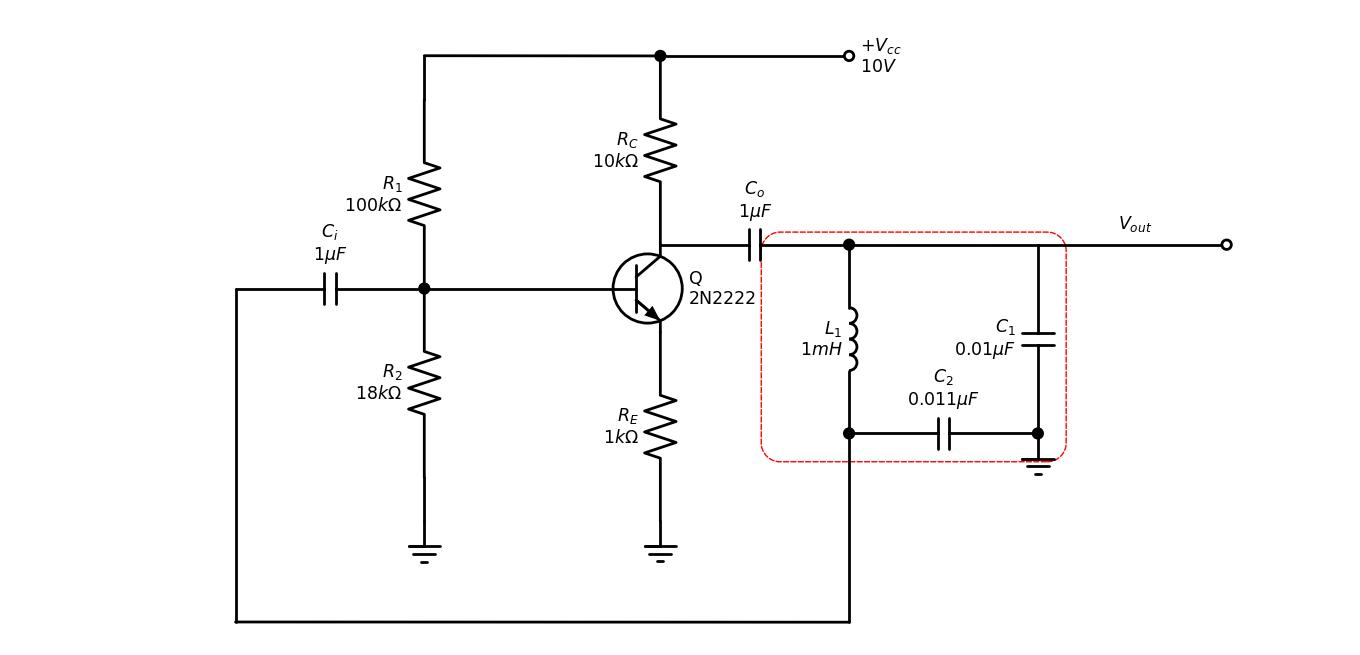
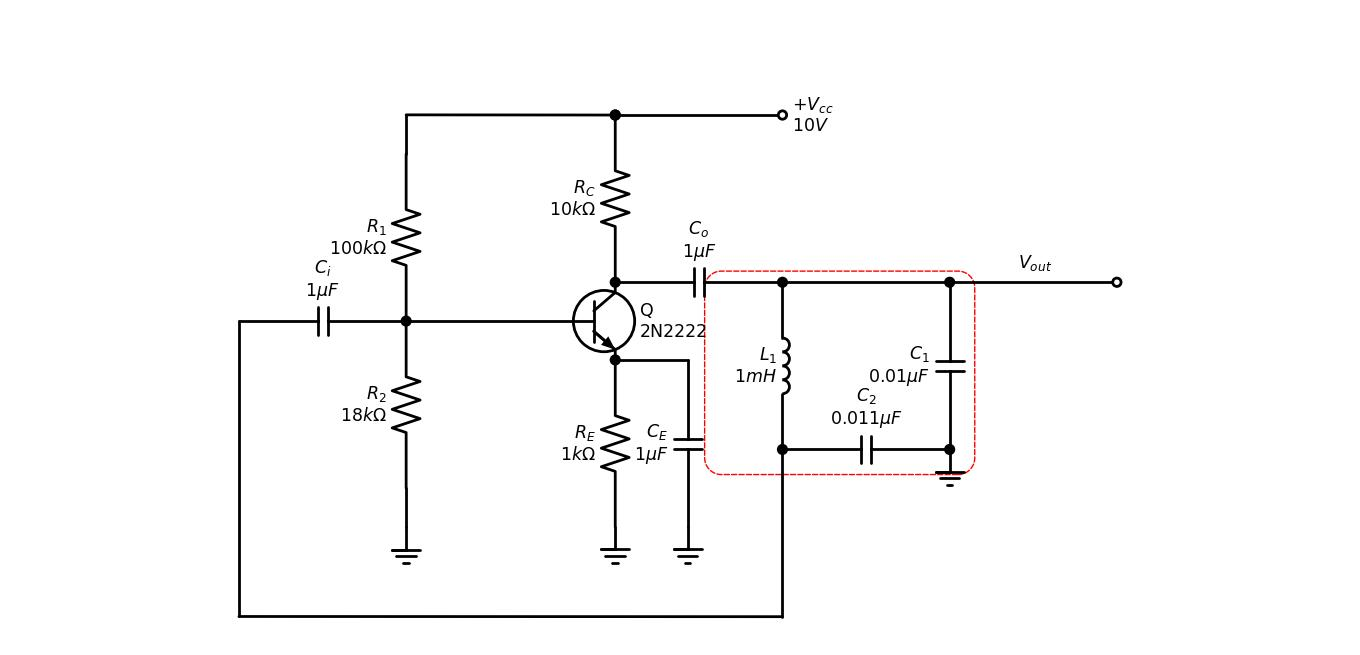
Correction
Added dots to the junctions where 3 or more wire meets. This specify that junctions with dot means all wires are joined here and if there is no dot then there is no connection to the overlapping wires.

diff --git a/1. BJT circuits/Colpitts Oscillator.py b/1. BJT circuits/Colpitts Oscillator.py
@@ -11,8 +11,11 @@ with schemdraw.Drawing() as d:
     d += (Q := elm.BjtNpn(circle=True).right().anchor('base').at(L1.end).label('Q\n2N2222'))
     d += (Lp := elm.Line().up().at(R1.end).length(0.7))
     d += (R3 := elm.Resistor().at(Q.collector).up().label('$R_C$\n$10k\Omega$'))
+    d += (D := elm.Dot().at(R3.end))
+    d += (D := elm.Dot().at(R3.start))
     d += (L2 := elm.Line().endpoints(R3.end, Lp.end))
     d += (R4 := elm.Resistor().at(Q.emitter).down().label('$R_E$\n$1k\Omega$'))
+    d += (D := elm.Dot().at(R4.start))
     d += (G2 := elm.Ground().at(R4.end))
     d += (Ly := elm.Line().down().at(R2.end).length(0.7))
     d += (G3 := elm.Ground().at(Ly.end))
@@ -21,6 +24,7 @@ with schemdraw.Drawing() as d:
     d += (L4 := elm.Line().right().at(C2.end))
     d += (I1 := elm.Inductor().down().at(L4.start).label('$L_1$\n $1mH$'))
     d += (C3 := elm.Capacitor().down().at(L4.end).label('$C_1$\n$0.01\mu F$'))
+    d += (D := elm.Dot().at(L4.end))
     d += (C4 := elm.Capacitor().down().endpoints(I1.end, C3.end).label('$C_2$\n$0.011\mu F$'))
     d += (G4 := elm.Ground().at(C3.end))
     d += (L5 := elm.Line().down().at(I1.end))
@@ -28,6 +32,9 @@ with schemdraw.Drawing() as d:
     d += (L7 := elm.Line().endpoints(L5.end, L6.end))
     d += (L8 := elm.Line().right().at(C3.start).dot(open=True).label('$V_{out}$'))
     d += (supernode := elm.EncircleBox([I1, C3, C4]).linestyle('--').linewidth(1).color('red'))
+    d += (l1 := elm.Line().right().at(R4.start).length(1.3))
+    d += (Ce := elm.Capacitor().down().at(l1.end).label('$C_E$\n$1\mu F$'))
+    d += (Gc := elm.Ground().at(Ce.end))
     #Wire juctions are denoted bby dots.
     d += (Dt1 := elm.Dot().at(I1.end))
     d += (Dt2 := elm.Dot().at(I1.start))
